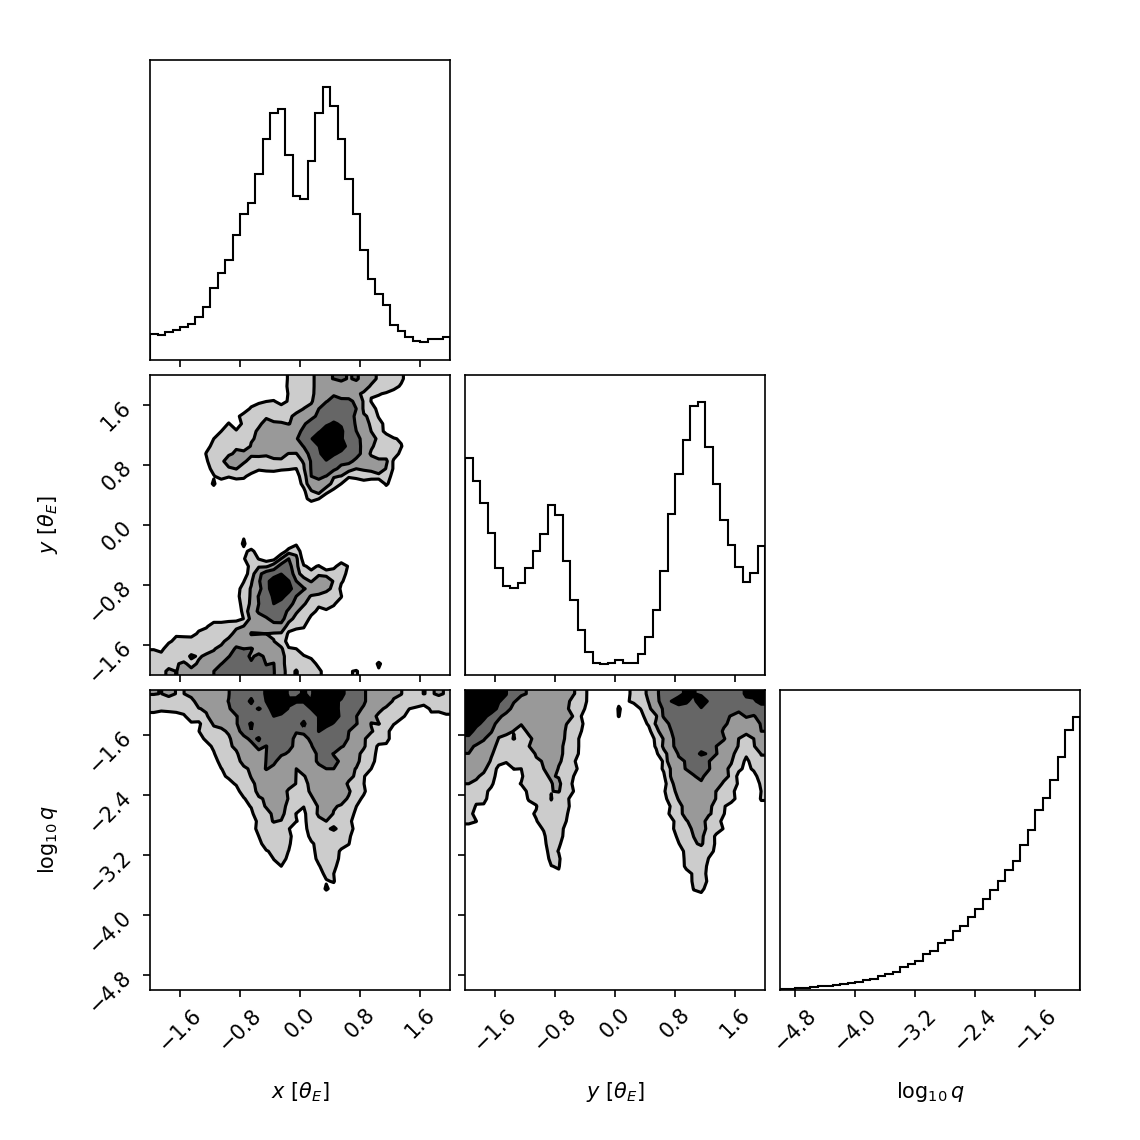
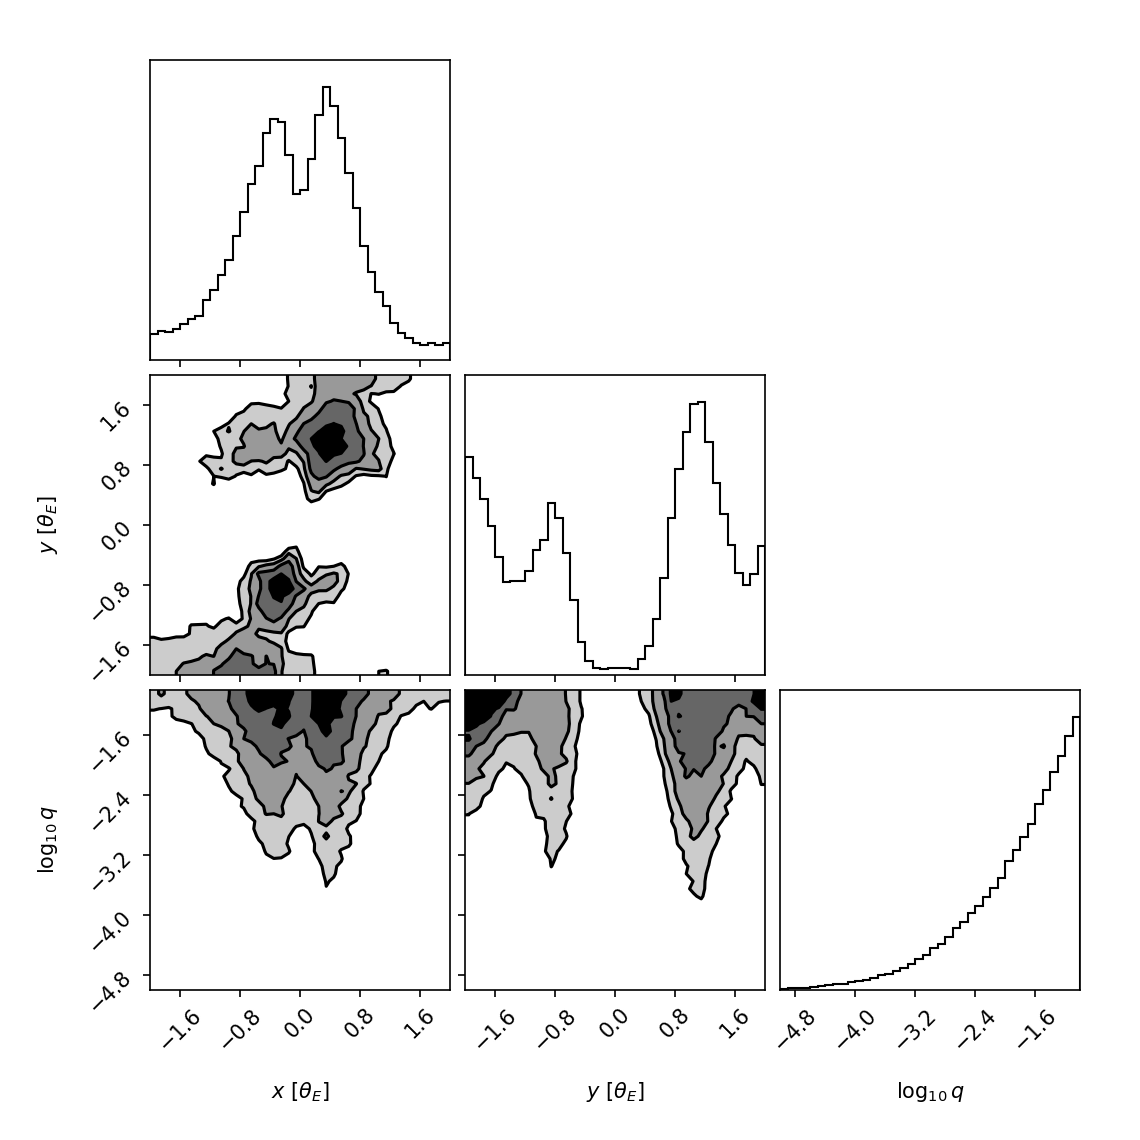
multiprocessing for rejection sampling

diff --git a/my_project/planet_anomaly/planet_anomaly.py b/my_project/planet_anomaly/planet_anomaly.py
@@ -7,7 +7,7 @@ import matplotlib.colors as colors
 import matplotlib.tri as mtri
 import corner
 
-import multiprocessing
+import multiprocessing as mp
 
 import lintsampler
 from scipy.interpolate import RegularGridInterpolator
@@ -21,9 +21,9 @@ VBB=VBBinaryLensing.VBBinaryLensing()
 VBB.Tol=float(0.001)
 VBB.satellite=int(0)
 
-############################
-# PLANET ANOMALY MAP CLASS #
-############################
+#################################
+# PLANET ANOMALY DETECTOR CLASS #
+#################################
 
 class PlanetAnomalyDetector(object):
     """
@@ -104,8 +104,8 @@ class PlanetAnomalyDetector(object):
         u_plus = 0.5 * (u + u_sqrt4)
         u_minus = 0.5 * (u - u_sqrt4)
         
-        # Handle potential division by zero if u_plus*2 - u_minus**2 is zero
-        denominator = (u_plus * 2 - u_minus**2)
+        # Handle potential division by zero if u_plus**2 - u_minus**2 is zero
+        denominator = (u_plus**2 - u_minus**2)
         mu_plus = u_plus**2 / denominator if denominator != 0 else np.inf
         mu_minus = u_minus**2 / denominator if denominator != 0 else np.inf
         
@@ -241,7 +241,7 @@ class PlanetAnomalyDetector(object):
                             fs, fb, ferr, rs, X_grid, Y_grid))
 
         # multiprocessing to compute reldev values on meshgrid
-        with multiprocessing.Pool(n_processes) as pool:
+        with mp.Pool(n_processes) as pool:
             reldev_maps['detection_zone'] = pool.starmap(PlanetAnomalyDetector._reldev_map, jobs)
 
         # average the reldev maps
@@ -256,6 +256,7 @@ class PlanetAnomalyDetector(object):
     # REJECTION SAMPLING #
     ######################
 
+    # gets weights for each datapoint from a lightcurve, used in map computation
     @staticmethod
     def _get_map_weights(event, pspl_params, t_range, logging=False):
         # get pspl params
@@ -316,6 +317,7 @@ class PlanetAnomalyDetector(object):
         # returning
         return weights
 
+    # Computes specific values for each datapoint, needs the computed weights
     @staticmethod
     def _prepare_points(weights, u0, te, t0):
         """
@@ -338,7 +340,7 @@ class PlanetAnomalyDetector(object):
             'im2x': bsx * u_minus / u, 'im2y': u0 * u_minus / u,    # minor image
         }
     
-    # Calculates RelDev for a single value using VBB
+    # Computes RelDev for a single value using VBB
     @staticmethod
     def _reldev_value(q, t, u0, te, t0, fs, fb, ferr, rs, xp, yp, tol=0.001): 
         """
@@ -385,28 +387,14 @@ class PlanetAnomalyDetector(object):
         
         return Z
 
-
-    # Creates the Planet Anomaly Map dependend on x,y,q while using Rejection Sampling
-    def create_map_with_rejection_sampling(self, 
-                                  xy_limits=((-2.0,2.0),(-2.0,2.0)), logq_limits=(-5,-1),
-                                  rs=0.0005, delta_time=5,
-                                  n_samples=100000, M=None, 
-                                  batch_size=10, n_processes=None, 
-                                  seed=0, logging=False):
-
-        ### Precompute weight and other values at each datapoint
-        t_range = (self.t0 - delta_time, self.t0 + delta_time) # [in JD]
-        weights = self._get_map_weights(self.event, self.pspl_params, t_range)
-        points = self._prepare_points(weights, self.u0, self.te, self.t0)
-        w_tot = np.sum(points['w'])
-
+    # Computes a given amount of samples with rejection sampling, for multiprocessing
+    @staticmethod
+    def _rejection_sampling_worker(points, w_tot, u0, te, t0, rs, 
+                                   xy_limits, logq_limits, 
+                                   M, n_samples, seed):
         # Setup
         rng = np.random.default_rng(seed)
         accepted_samples, n_draws, n_clipped = [], 0, 0
-
-        ### Choose fitting M
-        if M is None:
-            M = 8
 
         ### Rejection Sampling
         while len(accepted_samples) < n_samples:
@@ -431,10 +419,10 @@ class PlanetAnomalyDetector(object):
                 for i in order[start:stop]:
 
                     # calculate reldev value
-                    reldev = self._reldev_value(10**logq, points['t'][i], 
-                                                self.u0, self.te, self.t0, 
-                                                points['fs'][i], points['fb'][i], 
-                                                points['ferr'][i], rs, x, y)
+                    reldev = PlanetAnomalyDetector._reldev_value(10**logq, points['t'][i], 
+                                                                 u0, te, t0, 
+                                                                 points['fs'][i], points['fb'][i], 
+                                                                 points['ferr'][i], rs, x, y)
                     
                     # weighted sum
                     summed += reldev * points['w'][i]
@@ -452,16 +440,52 @@ class PlanetAnomalyDetector(object):
             # append values if accepted
             if accepted:
                 accepted_samples.append([x, y, logq])
-            
-                # print info on progress
-                if logging and len(accepted_samples)%1000 == 0:
-                    print(f'''Accepted Samples: {len(accepted_samples)} / {n_samples}, 
-                    Efficiency: {len(accepted_samples)/n_draws:.3f}''')
 
             # add one to the draw count
             n_draws += 1
 
-        accepted_samples = np.array(accepted_samples)
+        # return samples and amount of draws
+        return np.array(accepted_samples), n_draws
+
+    # Creates the Planet Anomaly Map dependend on x,y,q while using Rejection Sampling
+    def create_map_with_rejection_sampling(self, 
+                                  xy_limits=((-2.0,2.0),(-2.0,2.0)), logq_limits=(-5,-1),
+                                  rs=0.0005, delta_time=5,
+                                  n_samples=100000, M=8, 
+                                  batch_size=10, n_processes=None, 
+                                  seed=0, logging=False):
+
+        ### Precompute weight and other values at each datapoint
+        t_range = (self.t0 - delta_time, self.t0 + delta_time) # [in JD]
+        weights = self._get_map_weights(self.event, self.pspl_params, t_range)
+        points = self._prepare_points(weights, self.u0, self.te, self.t0)
+        w_tot = np.sum(points['w'])
+
+        # set number of processes
+        if n_processes == None:
+            n_processes = mp.cpu_count()
+
+        # split number of samples evenly accross processes
+        n_samples_workers = [n_samples // n_processes + (i < n_samples % n_processes) 
+                             for i in range(n_processes)]
+
+        # create seeds
+        seeds_workers = np.random.SeedSequence(seed).spawn(n_processes)
+
+        # set jobs
+        jobs = [(points, w_tot, self.u0, self.te, self.t0, rs, 
+                 xy_limits, logq_limits, M, n, s) 
+                 for n, s in zip(n_samples_workers, seeds_workers)]
+
+        # multiprocess rejection sampling
+        with mp.Pool(n_processes) as pool:
+            results = pool.starmap(PlanetAnomalyDetector._rejection_sampling_worker, jobs)
+
+        # concatenate accepted samples
+        accepted_samples = np.concatenate([r[0] for r in results])
+        n_draws = np.sum([r[1] for r in results])
+
+        # calculate efficiency
         efficiency = len(accepted_samples) / n_draws
         print('Efficiency:', efficiency)
 
@@ -488,6 +512,12 @@ class PlanetAnomalyDetector(object):
         plt.colorbar(label="counts")
         fig.savefig("my_project/graphics/corner_xylogq1.png", dpi=150)
 
+
+
+
+############################
+# PLANET ANOMALY MAP CLASS #
+############################
 
 
 class PlanetAnomalyMap(object):
@@ -543,6 +573,10 @@ class PlanetAnomalyMap(object):
             pass
 
 
+#############################
+# PLANET ANOMALY PLOT CLASS #
+#############################
+
 class PlanetAnomalyPlot(object):
     """
     This class inhabits the functions for plotting a Planet Anomaly Map.
@@ -569,7 +603,7 @@ class PlanetAnomalyPlot(object):
 
         # if they exist, add points add t position on trajectory
         self.t = None
-        if self.planet_anomaly_map.mode is 'grid' and self.add_info:
+        if self.planet_anomaly_map.mode == 'grid' and self.add_info:
             self.t = self.planet_anomaly_map.reldev_maps['t']
 
     #########
@@ -660,7 +694,7 @@ class PlanetAnomalyPlot(object):
         Create a figure of all maps, one per datapoint.
         '''
         # check if Map is in right mode
-        if self.planet_anomaly_map.mode is not 'grid':
+        if self.planet_anomaly_map.mode != 'grid':
             print('Cannot perform overview plot on any other map mode than \'grid\'')
             return
 
@@ -711,7 +745,7 @@ class PlanetAnomalyPlot(object):
         plt.tight_layout()
         fig = plt.gcf()
         if show:
-            fig.show()
+            plt.show()
         return fig
 
     # PLOT OF PLANET ANOMALY MAP
@@ -728,7 +762,7 @@ class PlanetAnomalyPlot(object):
         plt.title('Planet Anomaly Map')
         fig = plt.gcf()
         if show:
-            fig.show()
+            plt.show()
         return fig
 
     # PLOT OF PLANET DETECTION ZONE
@@ -745,11 +779,13 @@ class PlanetAnomalyPlot(object):
         plt.title('Planet Detection Zone of Checked Datapoints')
         fig = plt.gcf()
         if show:
-            fig.show()
+            plt.show()
         return fig
 
 
-    
+################################
+# PLANET ANOMALY SAMPLER CLASS #
+################################
 
 class PlanetAnomalySampler(object):
     """
@@ -886,22 +922,23 @@ class PlanetAnomalySampler(object):
 
         fig = plt.gcf()
         if show:
-            fig.show()
+            plt.show()
         return fig
 
 
 
-
+###############
+# TEST SCRIPT #
+###############
     
-
-
-
 if __name__ == '__main__':
     from pyLIMA import event
     from pyLIMA.simulations import simulator
     from pyLIMA.fits import TRF_fit
     from pyLIMA.models import PSBL_model
     from pyLIMA.outputs import pyLIMA_plots
+
+    import timeit
 
     ######################################################
     #### Create simulated Microlensing event
@@ -948,4 +985,7 @@ if __name__ == '__main__':
 
     ##################################################
     ### Create Anomaly Map
+    start = timeit.default_timer()
     anomaly_map = anomaly_detector.create_map_with_rejection_sampling(logging=True)
+    end = timeit.default_timer()
+    print('Elapsed time:', end - start)
